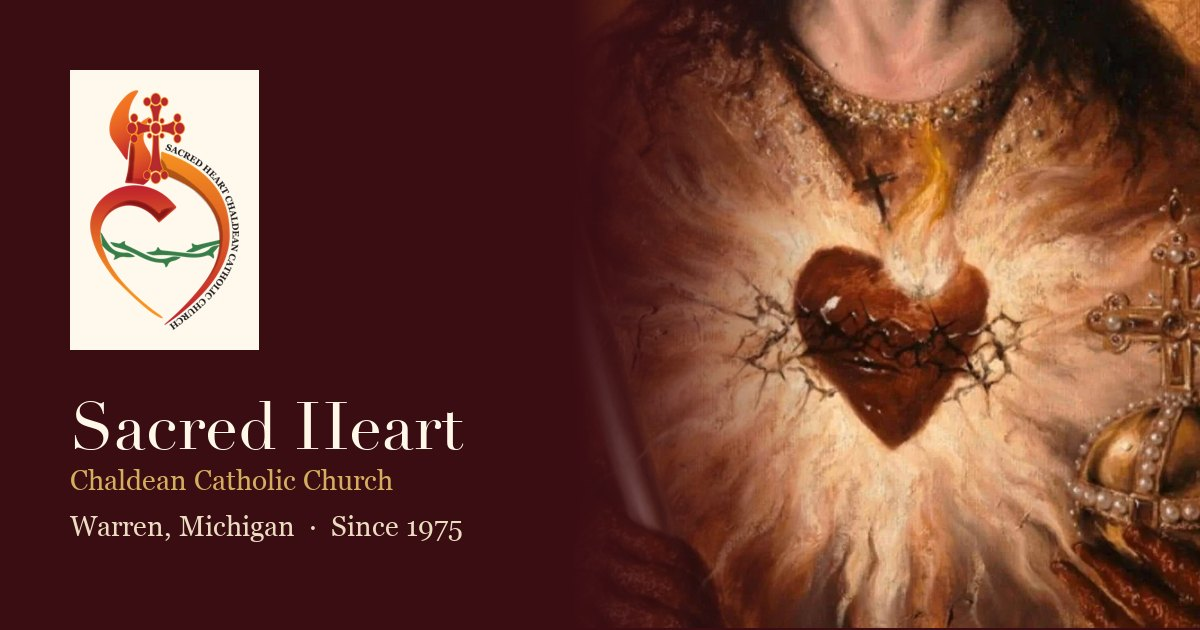
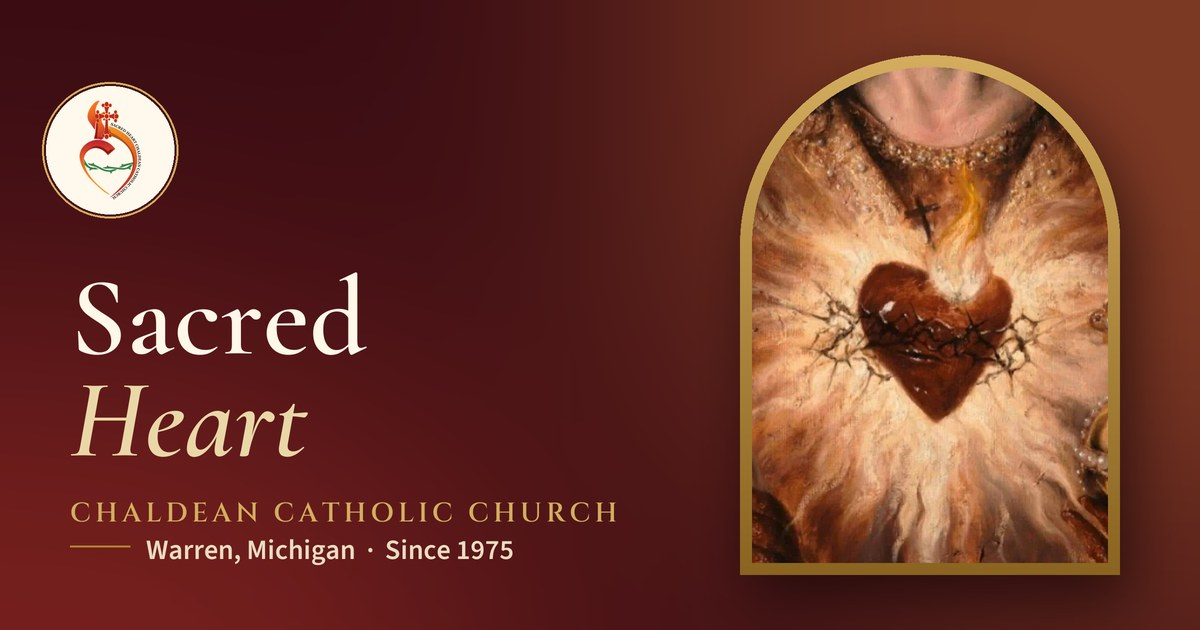
Fix link previews (live URL, branded share image, short titles); add CLAUDE.md and EDITING.md

diff --git a/EDITING.md b/EDITING.md
@@ -1,0 +1,79 @@
+# How to update the website (plain-English guide)
+
+You don't need to be a programmer. Pick whichever way is easiest for you.
+
+---
+
+## Way 1: Edit right on GitHub (no installs, works from any computer)
+
+Good for small changes: a Mass time, a phone number, adding an event.
+
+1. Go to **github.com/gorgeesndawood-max/sacred-heart-website**
+2. Click into **`src` → `data`** and open the file you need:
+   - **`site.ts`**: phone, email, office hours, **Mass times**
+   - **`events.ts`**: **events** (feasts, parties, trips)
+   - **`ministries.ts`**: the 13 ministries (Mom Group, Choir, Super Saints…)
+3. Click the **✏ pencil** icon (top right of the file).
+4. Make your change. Each text has an English line (`en:`) and an Arabic line (`ar:`). Change both.
+5. Click **Commit changes…** → **Commit changes**.
+6. Wait about 1 minute. The live website updates on its own.
+
+> ⚠ Keep the quote marks `'…'` and commas exactly as they are. If the site doesn't update, open the Vercel dashboard; a red ❌ means something got mistyped. Undo it in GitHub (open the file's **History**) or ask for help.
+
+### Example: change a Mass time
+In `src/data/site.ts`, find:
+```ts
+{ day: 0, time: '10:00', kind: 'mass', label: mass, lang: { en: 'Arabic', ar: 'العربية' } },
+```
+`day: 0` is Sunday (1 Mon, 2 Tue, 3 Wed, 4 Thu, 5 Fri, 6 Sat). `time` uses 24-hour time ('18:00' = 6 PM).
+
+### Example: add an event
+In `src/data/events.ts`, copy one existing block (from `{` to `},`), paste it at the top of the list, and change it:
+```ts
+{
+  id: 'christmas-party-2026',
+  start: '2026-12-19T20:00',
+  title: { en: 'Christmas Party', ar: 'حفلة الميلاد' },
+  summary: { en: 'Dinner and music in the church hall.', ar: 'عشاء وموسيقى في قاعة الكنيسة.' },
+  location: church,
+  tag: 'social',
+},
+```
+After the date passes it moves to "Recent" automatically.
+
+---
+
+## Way 2: Ask Claude to do it (best for bigger changes)
+
+1. Install Claude Code (needs a paid Claude plan, Pro or higher):
+   ```
+   curl -fsSL https://claude.ai/install.sh | bash
+   ```
+2. Get the website onto your computer (first time only):
+   ```
+   git clone https://github.com/gorgeesndawood-max/sacred-heart-website.git
+   cd sacred-heart-website
+   npm install
+   claude
+   ```
+3. Tell Claude what you want in plain words, for example:
+   - *"Change the Sunday Arabic Mass to 10:30 AM."*
+   - *"Add the Christmas Eve Mass on Dec 24 at 7 PM."*
+   - *"Add this photo of Fr. Fadi to the About page."*
+   - *"Preview it for me, then push it live."*
+
+   Claude reads `CLAUDE.md` in this folder and already knows how the site is organized.
+4. Next time, just `cd sacred-heart-website`, run `git pull`, then `claude`.
+
+---
+
+## Who owns what
+
+| Thing | Owner | Where |
+|---|---|---|
+| Code | GitHub repo `sacred-heart-website` | github.com/gorgeesndawood-max |
+| Hosting | Vercel project `sacred-heart-website` | vercel.com (sacred-heart-team) |
+| Contact form emails | shccc21@gmail.com | first submission needs a one-time "Activate" click |
+| Domain | sacredheartccc.com | wherever it was bought (likely Wix) |
+
+Anyone added as a **collaborator** on GitHub can edit. Add people under the repo's **Settings → Collaborators**.

diff --git a/CLAUDE.md b/CLAUDE.md
@@ -1,0 +1,50 @@
+# Sacred Heart Chaldean Catholic Church — website
+
+Parish website for Sacred Heart Chaldean Catholic Church, 30590 Dequindre Rd, Warren, MI 48092 (Pastor: Fr. Fadi Philip).
+Maintained by volunteers. Keep changes simple and keep the site easy for non-developers to edit.
+
+## Stack
+
+- **Astro** static site (no backend, no database, no logins, no payments — by design).
+- Plain `.astro` components + one global stylesheet (`src/styles/global.css`). No Tailwind, no UI framework.
+- TypeScript strict. `npx astro check` must report 0 errors.
+- Hosted on **Vercel** (project `sacred-heart-website`). Pushing to `main` on GitHub deploys automatically once the repo is connected in Vercel.
+
+## Commands
+
+```bash
+npm install
+npm run dev        # http://localhost:4321
+npm run build      # must succeed before pushing
+npx astro check    # type check
+```
+
+## Where things live
+
+| Change | Edit |
+|---|---|
+| Phone, email, address, office hours, pastor, social links, form inbox | `src/data/site.ts` |
+| Weekly Mass / Confession / Adoration times | `src/data/site.ts` → `schedule` |
+| The 13 ministries (text, meeting times, leaders, photos) | `src/data/ministries.ts` |
+| Events and yearly traditions | `src/data/events.ts` |
+| Menu / button labels | `src/i18n/ui.ts` |
+| Page layouts and page-specific copy | `src/views/*.astro` |
+| Header, footer, shared pieces | `src/components/` |
+| Colors, fonts, spacing | `src/styles/global.css` (`:root` tokens) |
+| Photos | `public/images/` (WebP, ≤1800px) |
+
+`src/pages/` only contains thin route files that render a view with `lang="en"` or `lang="ar"`. Don't put content there.
+
+## Rules
+
+1. **Every piece of text is bilingual.** Data uses `{ en: '…', ar: '…' }`; views use a `c = { en: {…}, ar: {…} }[lang]` object. When you add or change English text, add the Arabic too. Arabic pages live under `/ar/…` and are right-to-left (`dir="rtl"`) — use logical CSS (`margin-inline-start`, `inset-inline-end`) not left/right.
+2. **Don't invent parish facts.** Times, names, dates and policies must come from the parish (office, flyers, Instagram @sacredheartchaldeanchurch). If unknown, say "contact the office".
+3. **Events:** add to `src/data/events.ts` with an ISO `start` like `'2026-12-24T19:00'`. Past events move to "Recent" automatically in the browser — never delete history just because it passed.
+4. **Mobile first.** Most visitors are on phones. Check at 390px wide: no horizontal scroll, the bottom action bar (Mass / Call / Directions / Join) must not cover content.
+5. **Contact form** posts to FormSubmit (`formsubmit.co/ajax/<formInbox>`) and emails `shccc21@gmail.com`. No API keys or secrets exist in this repo — keep it that way.
+6. **Old Wix URLs** are 301-redirected in `vercel.json`. Don't remove those redirects.
+7. Arabic copy was machine-drafted; native-speaker corrections always win.
+
+## Domain
+
+Until the real domain is connected, the site URL comes from Vercel automatically (`astro.config.mjs`). After connecting `sacredheartccc.com` in Vercel, set the env var `SITE_URL=https://www.sacredheartccc.com` in Vercel → Settings → Environment Variables and redeploy, so share previews and SEO tags use the real domain.
